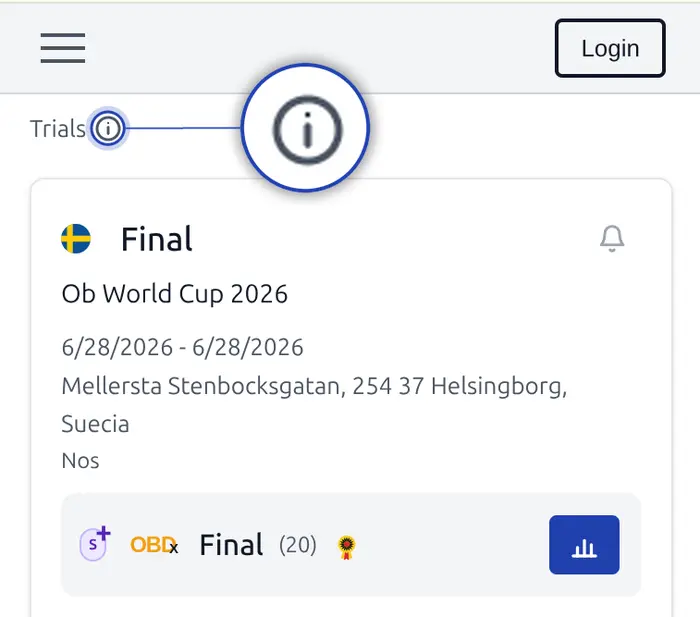
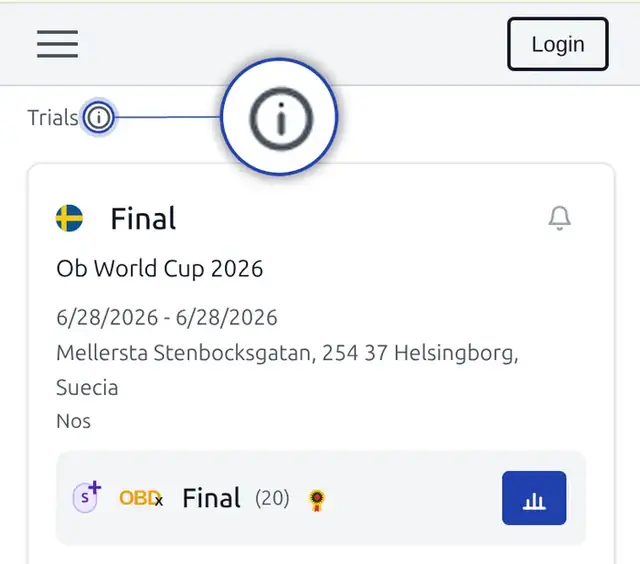
pagespeed fixes 2

diff --git a/ui/app/src/components/global/app-shell/layout/walkthrough/WalkthroughDialog.tsx b/ui/app/src/components/global/app-shell/layout/walkthrough/WalkthroughDialog.tsx
@@ -1,4 +1,4 @@
-import { createEffect, createSignal } from "solid-js";
+import { createEffect, createSignal, onCleanup } from "solid-js";
 import AtomDialog from "@lib/components/atoms/dialog/AtomDialog";
 import AtomButton, { BUTTON_TYPES } from "@lib/components/atoms/button/AtomButton";
 import { useI18n } from "@/stores/i18n/i18n";
@@ -21,8 +21,16 @@ export default function WalkthroughDialog() {
       return;
     }
 
-    if (!dismissed()) {
-      setOpen(true);
+    if (dismissed()) return;
+
+    if (typeof window.requestIdleCallback === "function") {
+      const id = window.requestIdleCallback(() => setOpen(true), {
+        timeout: 2500,
+      });
+      onCleanup(() => window.cancelIdleCallback(id));
+    } else {
+      const id = window.setTimeout(() => setOpen(true), 400);
+      onCleanup(() => window.clearTimeout(id));
     }
   });
 
@@ -47,9 +55,8 @@ export default function WalkthroughDialog() {
               class="walkthrough__image"
               src={breadcrumbsHint}
               alt={i18n.t("GLOBAL.WALKTHROUGH.BREADCRUMBS_IMAGE_ALT")}
-              width="700"
-              height="617"
-              fetchpriority="high"
+              width="640"
+              height="564"
             />
           </figure>
           <p class="walkthrough__text">

diff --git a/ui/app/src/entry-server.tsx b/ui/app/src/entry-server.tsx
@@ -1,7 +1,6 @@
 // @refresh reload
 import { createHandler, StartServer } from "@solidjs/start/server";
 import { resolveAppPath } from "@/utils/paths/app-paths";
-import breadcrumbsHint from "@/assets/miscelaneous/i_icon.webp";
 
 export default createHandler(() => (
   <StartServer
@@ -28,12 +27,6 @@ export default createHandler(() => (
           <meta property="og:image:height" content="512" />
           <meta property="og:image:type" content="image/png" />
           <link rel="icon" href={resolveAppPath("/favicon.svg")} />
-          <link
-            rel="preload"
-            as="image"
-            href={breadcrumbsHint}
-            fetchpriority="high"
-          />
           <link rel="preconnect" href="https://fonts.googleapis.com" />
           <link
             rel="preconnect"
